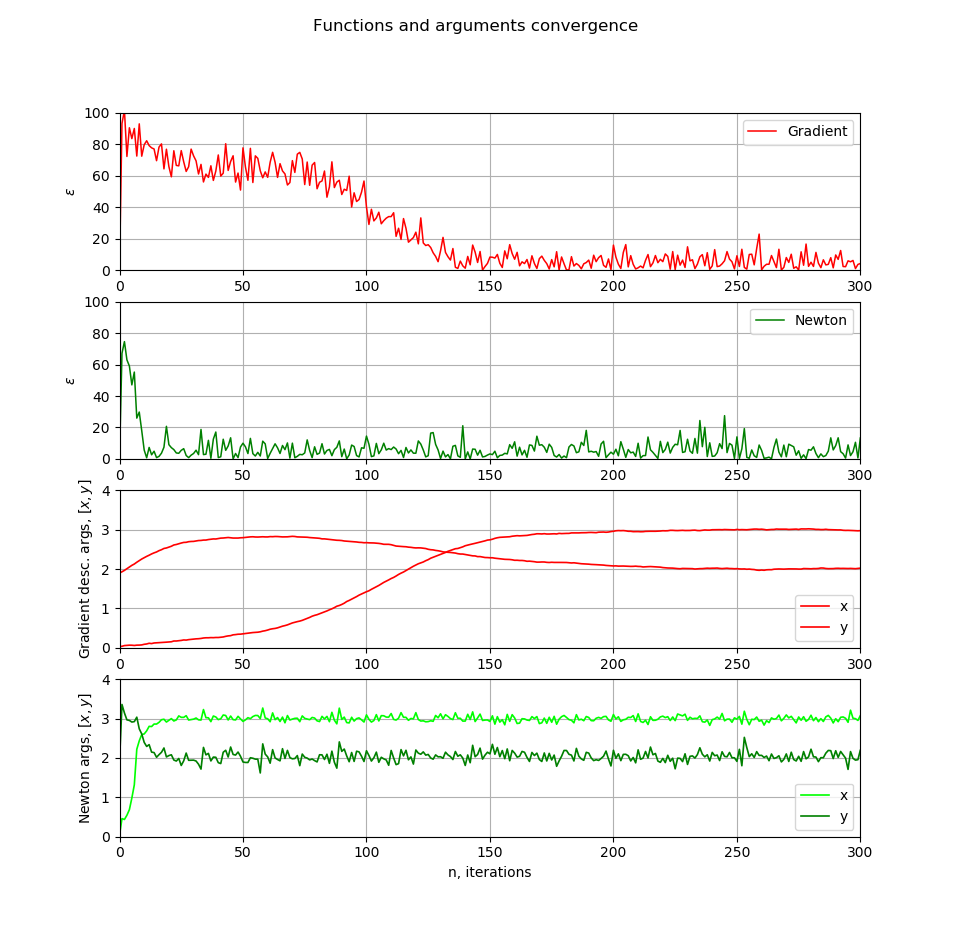
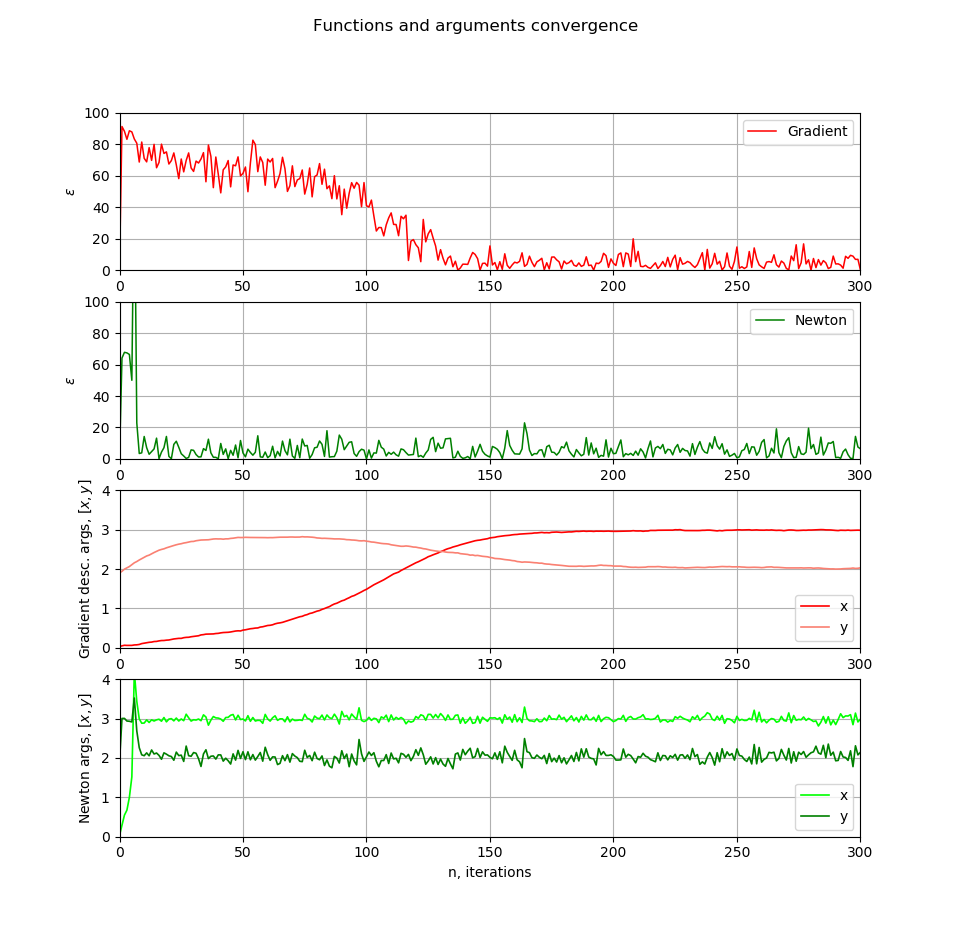
update images

diff --git a/Newton-vs-gradient.py b/Newton-vs-gradient.py
@@ -250,7 +250,7 @@ plt.ylabel('$\epsilon$')
 # plt.title('$\epsilon$, Newton')
 plt.grid(True)
 plt.axis([0, 300, 0, 100])
-plt.legend()
+plt.legend(loc='bottom right')
 
 # plt.set_xlabel('X Label')
 # plt.set_ylabel('Y Label')
@@ -264,13 +264,13 @@ plt.subplot(413)
 e_Gradent_line = plt.plot(w_history[:,0], label = 'x')
 plt.setp(e_Gradent_line, 'color', 'r', 'linewidth', 1.2)
 e_Gradent_line = plt.plot(w_history[:,1], label = 'y')
-plt.setp(e_Gradent_line, 'color', 'r', 'linewidth', 1.2)
+plt.setp(e_Gradent_line, 'color', 'salmon', 'linewidth', 1.2)
 # plt.xlabel('n, iterations')
 plt.ylabel('Gradient desc. args, $[x,y]$')
 # plt.title('Conv. to optimal argument,  Gradient')
 plt.grid(True)
 plt.axis([0, 300, 0, 4])
-plt.legend()
+plt.legend(loc='bottom right')
 
 
 plt.subplot(414)
